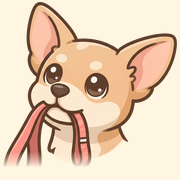
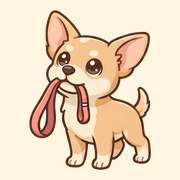
[로고] 얼굴 대신 신나서 선 전신으로 — 리드줄 고리·귀 끝까지 다 보이게
Claude-Session: https://claude.ai/code/session_01D364GF868k3HTded8WiX4b

diff --git a/_dev/logo-head.py b/_dev/logo-head.py
@@ -1,4 +1,5 @@
-# 새 로고(리드줄 문 치와와 얼굴, 2026-11-27 가르시아 "세번째꺼 로고로" → "그렇게 해줘") — 앱 아이콘·walson-logo.webp 만들기
+# 새 로고(리드줄 문 치와와, 2026-11-27) — 앱 아이콘·walson-logo.webp 만들기
+# 처음엔 얼굴 그림(head.webp, 아래 1)~4)) → 가르시아 "목줄 가리는 게 별로, 사슴 같아" → 신나서 선 전신(stand_cut)으로 바꿈. 얼굴 판 만드는 길은 아래 주석대로 남겨 둠
 #   원본: brand/logo-dog-2026-11-27/src/head.webp(2000×2000, 받은 그대로)
 #   1) Gemini ✦ 표시(오른쪽 아래)를 바탕색으로 덮음
 #   2) 투명 판: 가장자리에서 바탕색과 아주 가까운 점만 채워 나가며 지움(가슴 크림은 바탕보다 노래서 남음) → 가장 큰 덩어리
@@ -13,45 +14,33 @@ R = os.path.join(os.path.dirname(os.path.abspath(__file__)), "..")
 SRC = os.path.join(R, "brand/logo-dog-2026-11-27/src/head.webp")
 CREAM = (255, 246, 226)
 
+def stand_cut():
+    """11/27 가르시아 "목줄 가리는 게 별로 · 사슴 같아" → 2000px 세 자세 그림의 '신나서 선' 전신(리드줄 고리까지 다 보임) — 귀 옆 놀람 표시만 지움(귀 끝은 남김)"""
+    import importlib.util
+    spec = importlib.util.spec_from_file_location("cut", os.path.join(R, "_dev/logo-dog-cut.py"))
+    c = importlib.util.module_from_spec(spec); spec.loader.exec_module(c)
+    sh = np.asarray(Image.open(os.path.join(R, "brand/logo-dog-2026-11-27/src/three-poses-2k.webp")).convert("RGB")).copy()
+    sh[600:740, 30:151] = sh[10, 10]
+    return Image.fromarray(c.cut(sh[:, :int(sh.shape[1] * 0.335)]))
+
 def main():
-    im = np.asarray(Image.open(SRC).convert("RGB")).copy()
-    bg = np.median(np.concatenate([im[:20].reshape(-1, 3), im[:, :20].reshape(-1, 3)]), 0)
-    im[1820:, 1780:] = bg                                              # ✦ 표시
-    full = Image.fromarray(im)
-    d = np.abs(im.astype(int) - bg).sum(-1)
-    lab, _ = ndimage.label(d < 15)
-    edge = np.unique(np.concatenate([lab[0], lab[-1], lab[:, 0], lab[:, -1]])); edge = edge[edge > 0]
-    fg = ~np.isin(lab, edge)
-    l2, n = ndimage.label(fg)
-    sz = ndimage.sum(np.ones_like(l2), l2, range(1, n + 1))
-    fg = ndimage.binary_fill_holes(l2 == 1 + int(np.argmax(sz)))
-    a = np.asarray(Image.fromarray((fg * 255).astype(np.uint8)).filter(ImageFilter.GaussianBlur(2))).astype(float) / 255
-    ys = np.arange(im.shape[0])[:, None] * np.ones((1, im.shape[1]))
-    a *= np.clip((1640 - ys) / 140, 0, 1) ** 0.8 * (ys > 1300) + (ys <= 1300)   # 목 아래 스르르
-    rgba = np.dstack([im, (a * 255).astype(np.uint8)])
-    yy, xx = np.nonzero(a > 0.05)
-    cut = Image.fromarray(rgba).crop((xx.min() - 10, yy.min() - 10, xx.max() + 10, yy.max() + 10))
-    os.makedirs(os.path.join(R, "brand/logo-dog-2026-11-27"), exist_ok=True)
-    cut.save(os.path.join(R, "brand/logo-dog-2026-11-27/logo-head.png"), optimize=True)
-    # walson-logo.webp — 900×732 칸
-    W, H = 900, 732
+    cut = stand_cut()
+    cut.save(os.path.join(R, "brand/logo-dog-2026-11-27/logo-stand.png"), optimize=True)
+    W, H = 900, 732                                                      # walson-logo.webp — 예전과 같은 칸, 가운데·아래 맞춤
     k = min(W / cut.width, H / cut.height)
     c2 = cut.resize((round(cut.width * k), round(cut.height * k)), Image.LANCZOS)
     logo = Image.new("RGBA", (W, H), (0, 0, 0, 0)); logo.alpha_composite(c2, ((W - c2.width) // 2, H - c2.height))
     logo.save(os.path.join(R, "icons/walson-logo.webp"), "WEBP", quality=92, method=6)
-    # 아이콘 — 얼굴 쪽으로 당겨 자름(놀람 표시는 빠진 투명 판 기준)
-    face = full.crop((200, 120, 1840, 1760))
-    fa = Image.fromarray(rgba).crop((200, 120, 1840, 1760))
-    def icon(size, safe=1.0):
+    def icon(size, fill):                                                # 크림 바탕 가운데에 전신(fill = 긴 변이 차지하는 비율)
         bgim = Image.new("RGBA", (size, size), CREAM + (255,))
-        s = round(size * safe)
-        f = fa.resize((s, s), Image.LANCZOS)
-        bgim.alpha_composite(f, ((size - s) // 2, size - s if safe == 1.0 else (size - s) // 2))
+        kk = size * fill / max(cut.size)
+        f = cut.resize((round(cut.width * kk), round(cut.height * kk)), Image.LANCZOS)
+        bgim.alpha_composite(f, ((size - f.width) // 2, (size - f.height) // 2))
         return bgim
-    icon(192).save(os.path.join(R, "icons/icon-192.png"), optimize=True)
-    icon(512).save(os.path.join(R, "icons/icon-512.png"), optimize=True)
-    icon(512, 0.8).save(os.path.join(R, "icons/icon-maskable-512.png"), optimize=True)
-    icon(180).convert("RGB").save(os.path.join(R, "icons/apple-touch-icon.png"), optimize=True)
+    icon(192, 0.9).save(os.path.join(R, "icons/icon-192.png"), optimize=True)
+    icon(512, 0.9).save(os.path.join(R, "icons/icon-512.png"), optimize=True)
+    icon(512, 0.72).save(os.path.join(R, "icons/icon-maskable-512.png"), optimize=True)   # 가운데 안전 칸 안
+    icon(180, 0.9).convert("RGB").save(os.path.join(R, "icons/apple-touch-icon.png"), optimize=True)
     print("logo", cut.size, "-> walson-logo.webp 900x732 · icons 192/512/maskable/apple")
 
 if __name__ == "__main__":

diff --git a/PROJECT_CONTEXT.md b/PROJECT_CONTEXT.md
@@ -4003,3 +4003,6 @@ Black Han Sans 굵게 뭉개짐 0곳. 실제 폰은 아직.
   → `icons/walson-logo.webp`(예전과 같은 900×732 칸) · 아이콘 192·512·maskable 512(가운데 80%)·apple 180(크림 바탕 #fff6e2, 얼굴 쪽으로 당겨 자름).
 - 캐시: 아이콘 `?v=4`, `walson-logo.webp?v=2`(로고 쓰는 화면 모두). 소개 화면 그림 설명 글도 바꿈.
 - 확인: [오늘] 첫 화면(젤리·블랙)·시작·포스터·소개 — 화면 오류 없음. 이미 나간 키링 인쇄 파일·명함 등 실물은 예전 로고.
+- 같은 날 가르시아 "목줄을 저렇게 가리는 게 별로 · 강아지가 아니고 사슴 같아" → 얼굴만 있으면 큰 귀·황갈색 때문에 아기 사슴처럼 읽히고 리드줄 고리가 잘려서,
+  2000px 세 자세 그림의 '신나서 선' 전신으로 바꿈(리드줄 고리·몸·꼬리 다 보임) → "귀가 잘려서 안 잘린 거로": 놀람 표시 지울 때 왼쪽 귀 끝까지 덮었던 것을 고쳐 귀 온전히.
+  `_dev/logo-head.py` `stand_cut` → 로고(900×732)·아이콘 넷(전신을 크림 바탕 가운데, maskable은 72%).
